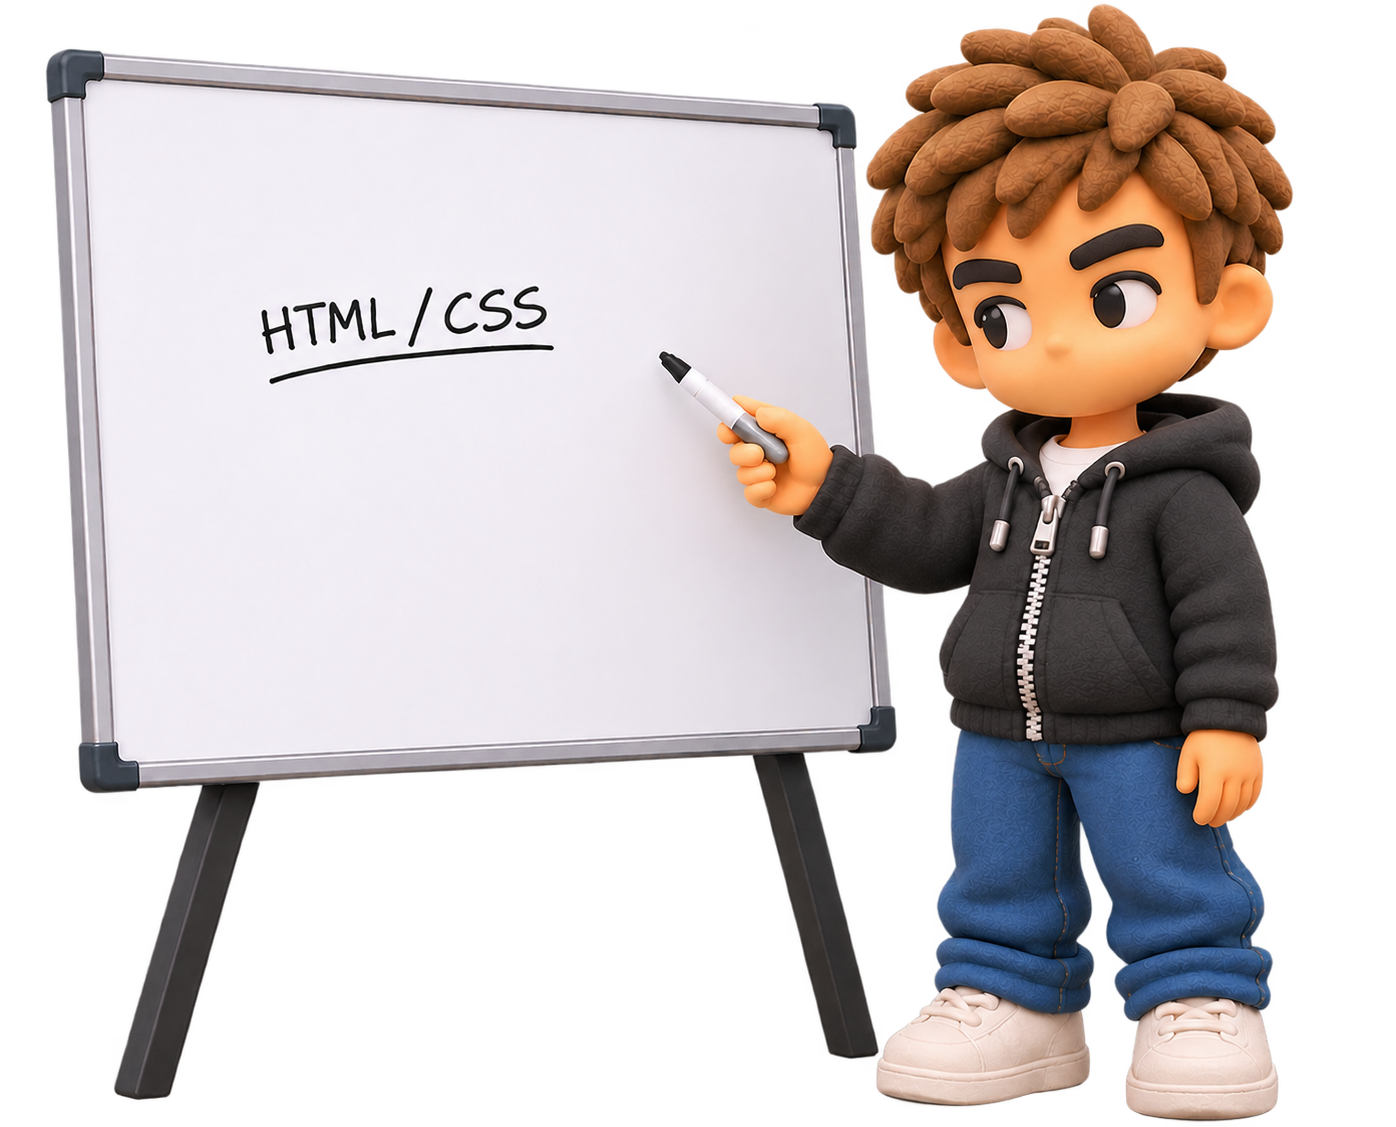
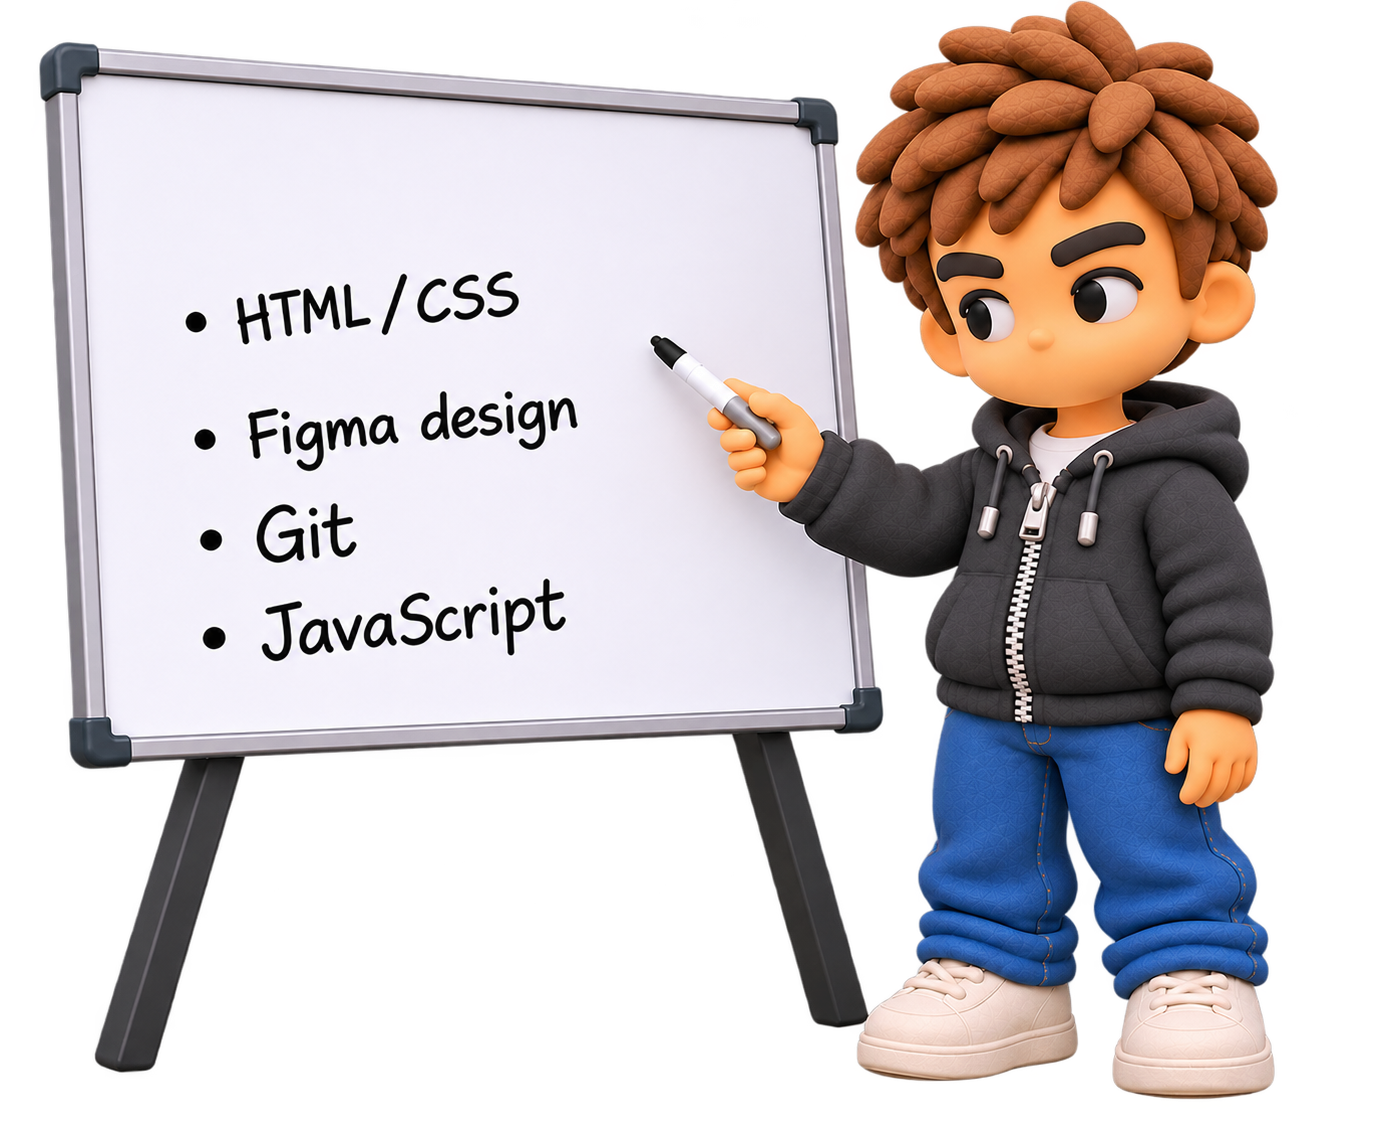
Final version 2-11-26

diff --git a/Vaardigheden.html b/Vaardigheden.html
@@ -36,10 +36,10 @@
 
         <!--HTML/CSSj-->
         <section class="HTML">
-            <div class="Wie">
+            <div class="HTMLT">
                 <h1 class = "font64">HTML/CSS</h1>
                 <p class = "font24">
-                    Ik heb veel geleerd over het gebruik <br> van html en css. Ik weet hoe ik ze <br> aan elkaar kan koppelen, zodat de <br> css de html kan stylizen. Verder <br> ken ik de basisstructuur van html <br> wel en kan ik zonder moeite een <br> website maken
+                    Ik heb in periode 1 van het eerste jaar veel geleerd over het gebruik <br> van html en css. Ik weet hoe ik ze <br> aan elkaar kan koppelen, zodat de <br> css de html kan stylizen. Verder <br> ken ik de basisstructuur van html <br> wel en kan ik zonder moeite een <br> website maken
                 </p>
 
                 <img src="images/Code2.png" class="img2">
@@ -52,6 +52,56 @@
 
         <hr>
 
+        <!--Figma-->
+        <section class = "Figma">
+            <div class = "img4">
+                <img src="images/FigmaDesign.png" width="500">
+                <img src ="images/Figma.png" width="500">
+            </div>
+            <div class = "FigmaDesign">
+                <h1 class = "font64">Figma design</h1>
+                <p class = "font24">
+                    Tijdens de duur van de eerste periode van het eerste jaar heb ik geleerd over hoe ik het programma <br> Figma kan gebruiken. Met dit programma <br> kan ik designs maken voor mijn website, <br> waardoor het makkelijker wordt om te coderen. <br> Met Figma heb ik voornamelijk geleerd hoe <br> je auto layout gebruikt. Dit zorgt ervoor dat <br> de layout automatisch alles aanpast. <br> Stel ik verplaats 1 stukje in de navigatie balk, <br> dan beweegt de rest mee zodat het netjes blijft.
+                </p>
+            </div>
+        </section>
+
+        <hr>
+
+        <!--Git-->
+        <section class = "Git">
+            <div class = "Github">
+                <h1 class = "font64">Git</h1>
+                <p class = "font24">
+                    In periode 1 van jaar 1 heb ik vooral geleerd <br> om met git om te gaan. <br> Voornamelijk gebruik ik github. <br> Hier kan ik mijn projecten opslaan zodat <br> als ik ze op een manier kwijtraak dat ik ze <br> net zo makkelijk terug kan krijgen. <br> Dit doe ik door middel van mijn projecten <br> te committen, en dan ze te pushen naar github.
+                </p>
+            </div>
+
+            <div class = "img5">
+                <img src="images/Github.png" width="800">
+            </div>
+        </section>
+
+        <hr>
+
+        <!--Javascript-->
+        <section class = "Javascript">
+
+         <div class = "img6">
+                <img src="images/Javascript.png" width="400">
+                <img src="images/Processing.png" width="400">
+        </div>
+
+            <div class = "Java">
+                <h1 class = "font64">Javascript</h1>
+                <p class = "font24">
+                    Als laatste onderwerp wat ik de <br> eerste periode van het eerste jaar <br> heb geleerd is Javascript. <br> Met Javascript leer ik dingen zoals <br> vormen tekenen, animaties en kleine <br> programma's maken zoals klokjes of <br> rekenmachines. Ik heb dit vooral met <br> processing gedaan. Ik heb meerdere <br> animaties gemaakt, bijvoorbeeld een <br> balletje die beweegt, en als die het einde <br> van het scherm bereikt dat hij terug teleporteerd.
+                </p>
+            </div>
+        </section>
+
+        <hr>
+        
         <!--Footer-->
         <section class = "Footer">
             <a href = "Vaardigheden.html" class="font24">Terug naar boven</a>

diff --git a/style.css b/style.css
@@ -36,6 +36,10 @@ a {
     text-decoration: none;
 }
 
+a > img:hover {
+    background-color: rgb(61, 61, 61);
+}
+
 .pointer{
     cursor: pointer;
 }
@@ -55,6 +59,7 @@ a {
 .Hero > img {
     margin-top: 120px;
     border-radius: 50px;
+    margin-right: 75px;
 }
 
 nav {
@@ -70,7 +75,8 @@ nav {
 }
 
 .HeroTekst {
-    margin: 220px;
+    margin-left: 100px;
+    margin-top: 150px;
 }
 
 .Mijzelf {
@@ -102,6 +108,7 @@ nav {
 .MijzelfWie {
     display: flex;
     justify-content: space-between;
+    margin-left: 10px;
 }
 
 .MijzelfWie > img {
@@ -113,6 +120,7 @@ nav {
     display: flex;
     justify-content: space-between;
     margin-top: 50px;
+    margin-left: 10px;
 }
 
 .MijzelfWat > img {
@@ -123,20 +131,25 @@ nav {
 
 .OpleidingWat {
     display: flex;
-    padding: 50px;
+    justify-content: space-between;
+    margin-left: 10px;
 }
 
 .OpleidingWat > img{
     border-radius: 50px;
+    margin-right: 50px;
 }
 
 .OpleidingWaarom {
     display: flex;
-    padding: 100px;
+    margin-right: 50px;
+    justify-content: space-between;
+    margin-top: 50px;
 }
 
 .OpleidingWaarom > img {
-    border-radius: 50px;;
+    border-radius: 50px;
+    margin-left: 100px;
 }
 
 /*Vaardigheden*/
@@ -153,6 +166,7 @@ nav {
 .img1 {
     width: 650px;
     margin-top: 30px;
+    margin-right: 50px;
     border-radius: 25px;
 }
 
@@ -165,7 +179,71 @@ nav {
 .HTML {
     display: flex;
     justify-content: space-between;
-    padding: 0 30px;
+}
+
+.HTMLT{
+    margin-left: 100px;
+}
+
+.Figma {
+    display: flex;
+    justify-content: space-between;
+    margin-left: 50px;
+}
+
+.FigmaDesign{
+    margin-top: 40px;
+}
+
+.img4 {
+    margin-top: 20px;
+    margin-bottom: 20px;
+    margin-left: 50px;
+}
+
+.img4 > img {
+    border-radius: 50px;
+}
+
+.Git {
+    display: flex;
+    justify-content: space-between;
+    margin-left: 50px;
+}
+
+.Github {
+    margin-left: 50px;
+}
+
+.img5 {
+    margin-top: 50px;
+    margin-bottom: 30px;
+    margin-right: 30px;
+}
+
+.img5 > img {
+    border-radius: 50px;
+}
+
+.Javascript {
+    display: flex;
+    justify-content: space-between;
+}
+
+.Java {
+    margin-top: 150px;
+}
+
+.img6 {
+    display: flex;
+    flex-direction: column;
+    padding: 30px;
+    gap: 20px;
+    margin-left: 50px;
+}
+
+.img6 > img {
+    border-radius: 50px;
 }
 
 /*Projecten*/
@@ -175,8 +253,20 @@ nav {
 }
 
 .GDoel {
-    padding: 10px 20px;
-    text-align: center;
+    text-align: left;
+    margin-left: 100px;
+}
+
+.HeroP {
+    display: flex;
+    justify-content: space-between;
+    margin-top: 50px;
+    margin-right: 50px;
+    margin-bottom: 50px;
+}
+
+.HeroP > img {
+    border-radius: 50px;
 }
 
 .ImgDoel{
@@ -201,6 +291,7 @@ nav {
 }
 
 .Contact {
+    margin-left: 50px;
     margin-bottom: 50px;
     padding: 50px;
 }

diff --git a/Projecten.html b/Projecten.html
@@ -21,7 +21,7 @@
     <body>
 
         <!--Hero section-->
-        <section class="Hero">
+        <section class="HeroP">
             <div class = "HeroTekst">
                 <h1 class = "font64">Projecten</h1>
                 <p class = "font24">
@@ -46,8 +46,14 @@
             <div class = "ImgDoel">
                 <h1 class = "font64">Goede Doel Website</h1>
                 <img src="images/Website.png" class="img3">
-                <a href="https://github.com/StefanvanBeek/Goed-goel-website">Goede doel Github</a>
-                <a href="Goeddoel/index.html">Goede doel website</a>
+                <a href="https://github.com/StefanvanBeek/Goed-goel-website">
+                    Goede doel Github
+                    <img src="images/extern.png" width="25">
+                </a>
+                <a href="Goeddoel/index.html">
+                    Goede doel website
+                    <img src="images/extern.png" width="25">
+                </a>
             </div>
 
         </section>

diff --git a/index.html b/index.html
@@ -42,7 +42,7 @@
         </section>
 
         <section class="MijzelfWat">
-        <img src = "images/Programs.jpg" width="650" height="500">
+        <img src = "images/Programs.jpg" width="550" height="400">
 
             <div class = "Wat">
                 <h1 class = "font64">Wat doe ik</h1>
